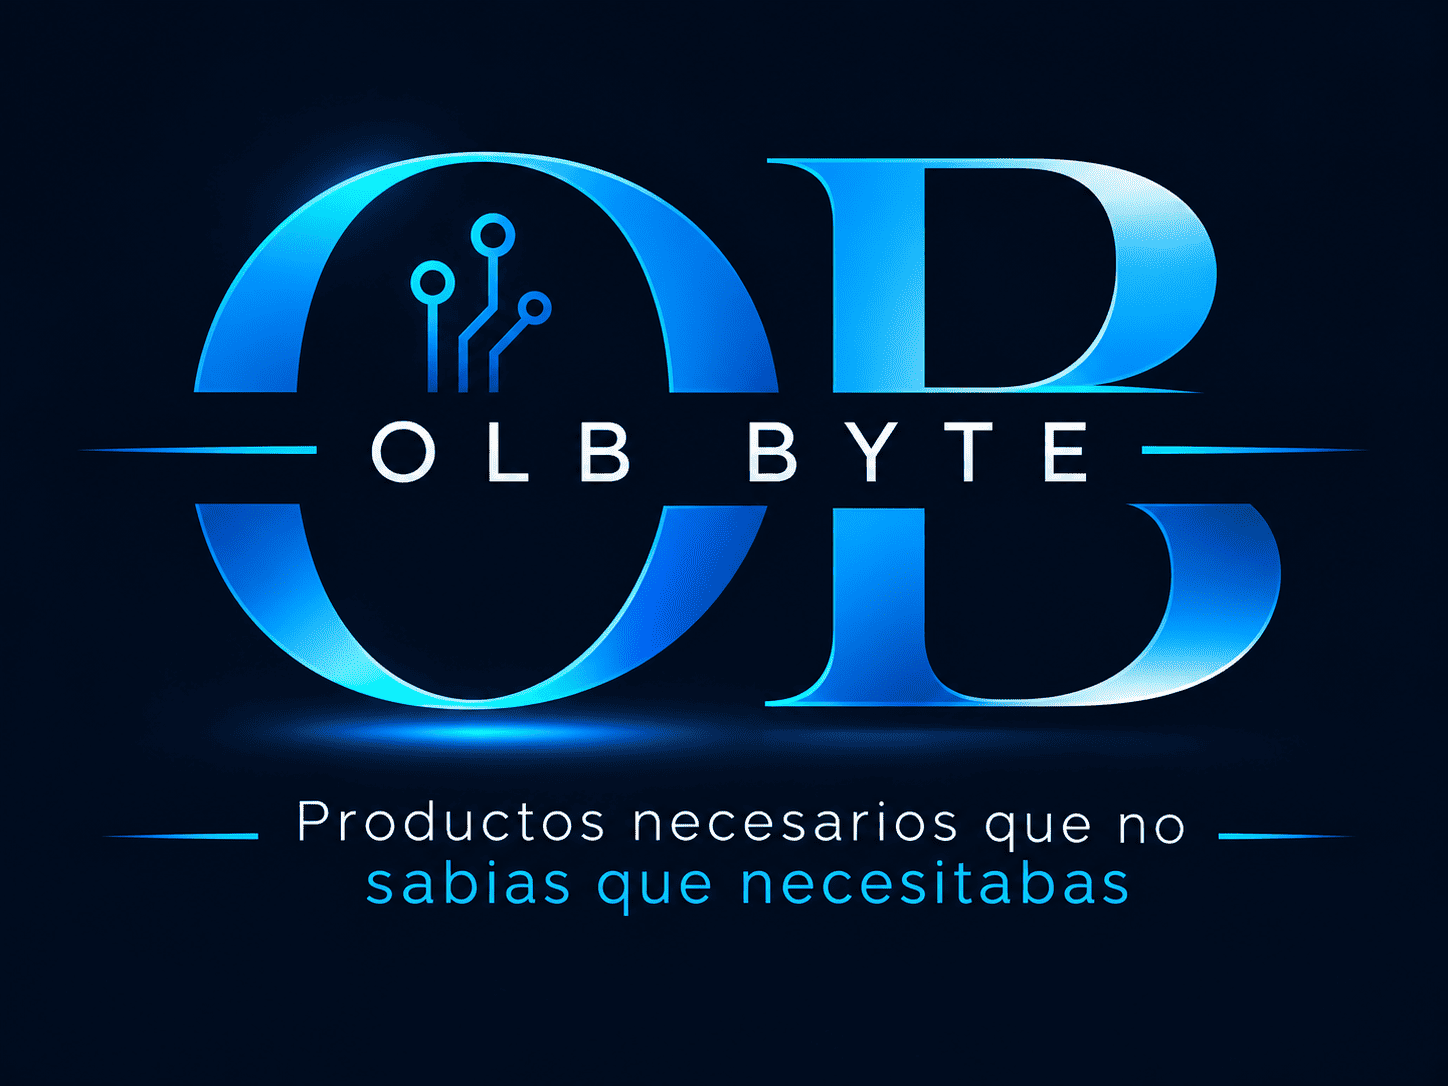
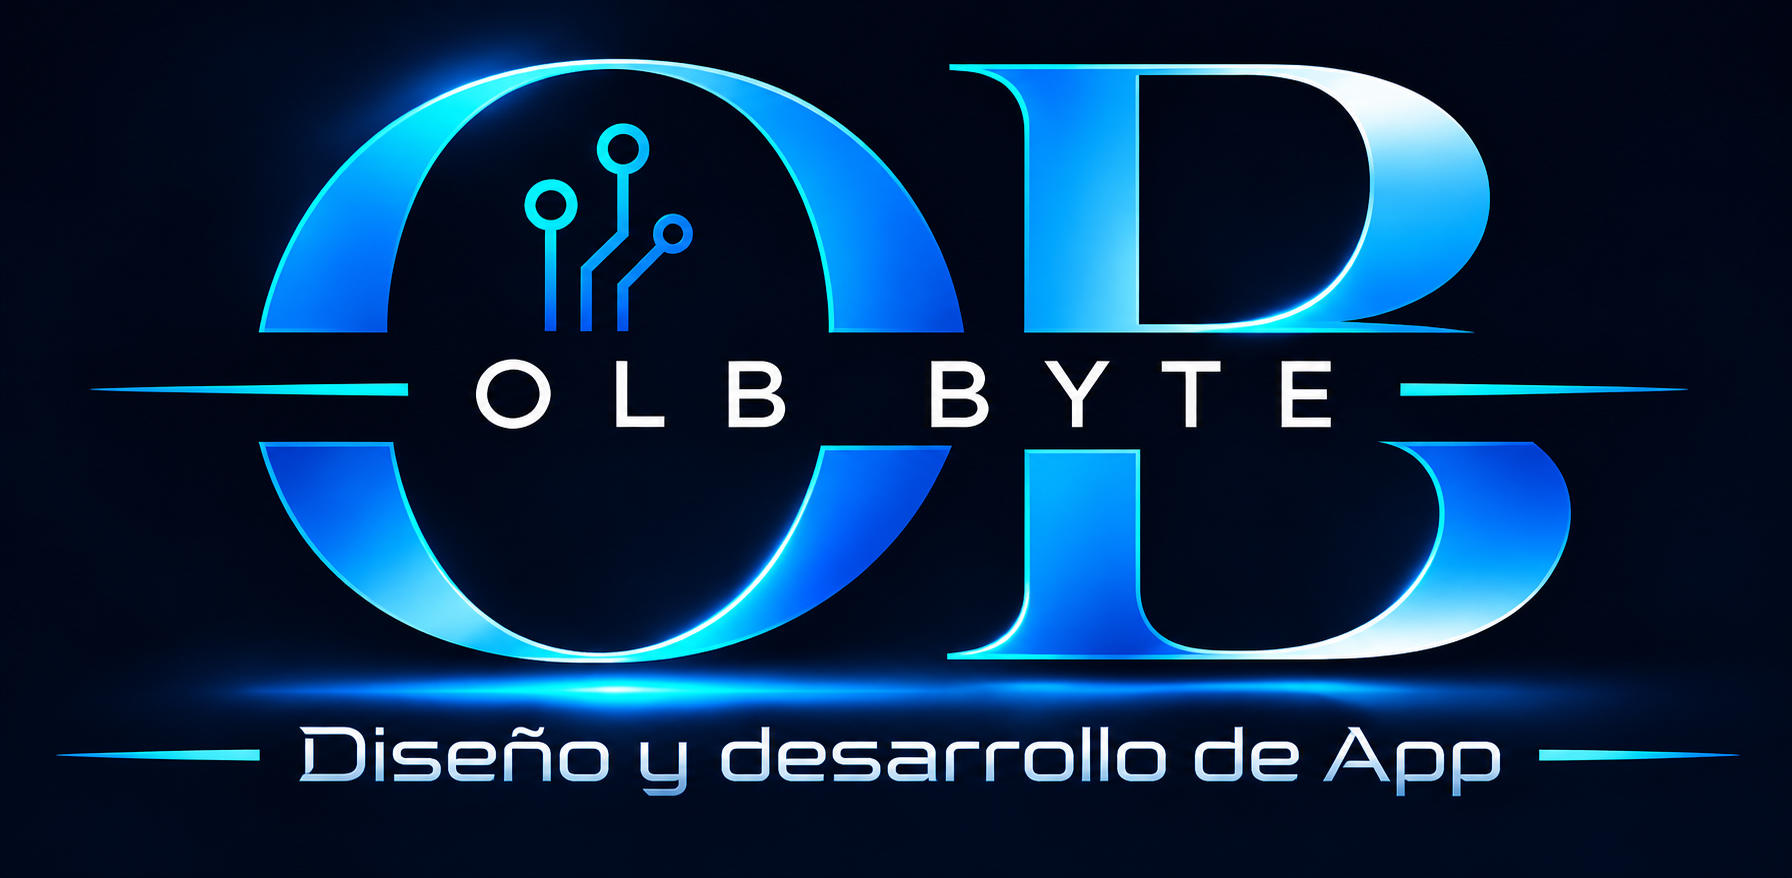
Vista previa de WhatsApp: usa la imagen nueva de Nuevo Logo2
- static/img/vista-previa.png es copia de assets/Nuevo Logo2.png (antes servia una copia anterior).
- og:image y twitter:image apuntan a vista-previa.png?v=4 para que WhatsApp descargue de nuevo.
- Nota: la imagen pesa 1,4 MB; pendiente reducirla a ~1200x630.
- Bitacora en MEMORY.md. Pruebas: 621 en verde.

Changed region(s): [[0.0311, 0.0308, 0.9634, 0.9226]]

diff --git a/backend/app/templates/base.html b/backend/app/templates/base.html
@@ -14,12 +14,12 @@
   <meta property="og:title" content="Mis Finanzas" />
   <meta property="og:description" content="{{ descripcion_social }}" />
   <meta property="og:url" content="{{ base_social }}/" />
-  <meta property="og:image" content="{{ base_social }}/estaticos/img/vista-previa.png?v=2" />
+  <meta property="og:image" content="{{ base_social }}/estaticos/img/vista-previa.png?v=4" />
   <meta property="og:image:alt" content="Mis Finanzas: finanzas personales y nómina colombiana" />
   <meta name="twitter:card" content="summary_large_image" />
   <meta name="twitter:title" content="Mis Finanzas" />
   <meta name="twitter:description" content="{{ descripcion_social }}" />
-  <meta name="twitter:image" content="{{ base_social }}/estaticos/img/vista-previa.png?v=2" />
+  <meta name="twitter:image" content="{{ base_social }}/estaticos/img/vista-previa.png?v=4" />
   <meta name="description" content="Finanzas personales, nómina colombiana y administración OLB_BYTE." />
   <title>{% block titulo %}{{ titulo_pagina or "Finanzas y OLB_BYTE" }}{% endblock %} · OLB_BYTE</title>
   <link rel="icon" type="image/svg+xml" href="{{ url_for('estaticos', path='img/favicon.svg') }}" />

diff --git a/backend/tests/test_vista_previa.py b/backend/tests/test_vista_previa.py
@@ -36,7 +36,7 @@ def test_imagen_de_vista_previa_es_absoluta_y_responde() -> None:
     """La imagen usa URL absoluta sin espacios y el servidor la entrega."""
     cliente = TestClient(crear_aplicacion())
     html = cliente.get("/login").text
-    imagen = f"{URL_PRODUCCION}/estaticos/img/vista-previa.png?v=2"
+    imagen = f"{URL_PRODUCCION}/estaticos/img/vista-previa.png?v=4"
 
     assert f'<meta property="og:image" content="{imagen}" />' in html
     assert f'<meta name="twitter:image" content="{imagen}" />' in html

diff --git a/MEMORY.md b/MEMORY.md
@@ -453,6 +453,19 @@ Recálculo en tiempo real (<100 ms) sin recargar página. Se implementa con func
 
 ## Bitácora de Cambios
 
+### 2026-11-20 — Imagen de vista previa de WhatsApp actualizada
+
+**Causa:** la vista previa usa `static/img/vista-previa.png`, una copia separada de `assets/Nuevo Logo2.png`. Al cambiar solo `assets/`, la app seguía sirviendo la copia anterior. Además, WhatsApp guarda la imagen por su dirección (`?v=2`).
+
+**Cambios realizados**
+1. `static/img/vista-previa.png` es ahora una copia de `assets/Nuevo Logo2.png` (mismo MD5).
+2. `templates/base.html`: `og:image` y `twitter:image` apuntan a `vista-previa.png?v=3`.
+3. `tests/test_vista_previa.py` espera `?v=3`.
+
+**Nota:** el logo de la factura se guarda en memoria al arrancar (`logo_como_data_uri`); para verlo cambiado hay que reiniciar la aplicación.
+
+**Verificación:** `pytest` en verde con **621 pruebas**.
+
 ### 2026-11-20 — Metas en móvil: dos abonos visibles y formulario «Extender» dentro de la tarjeta
 
 **Cambios realizados**
